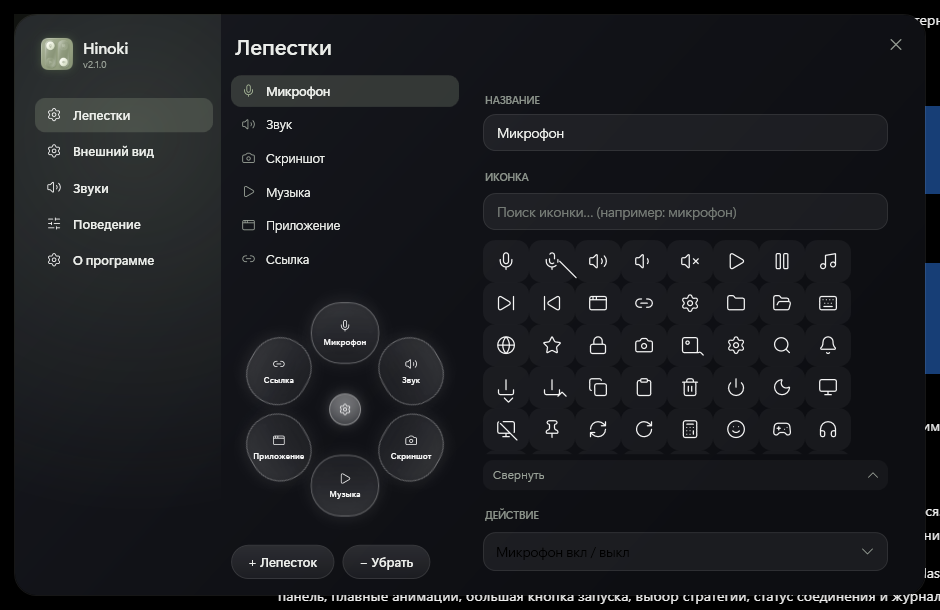
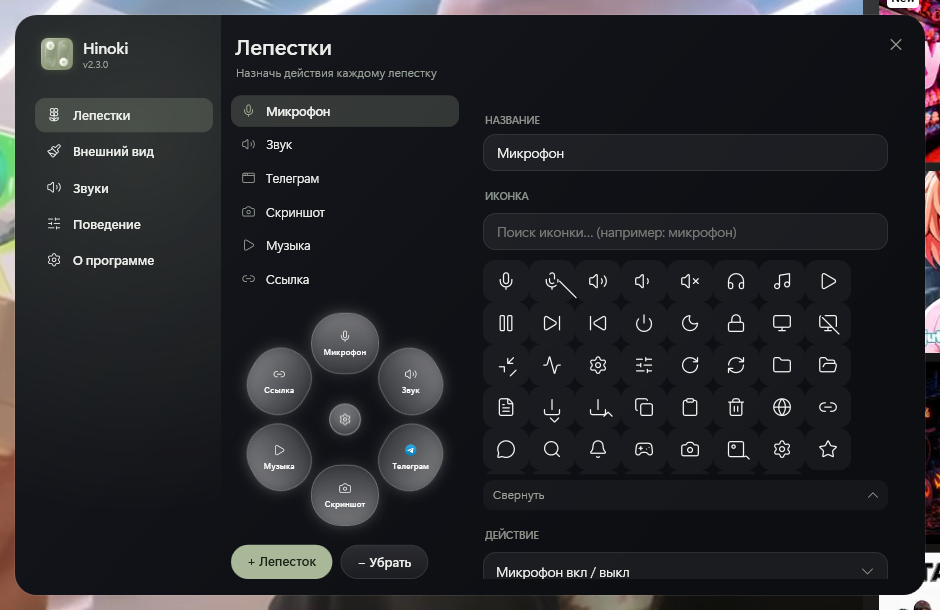
feat: v2.3.0 — polish pass
- Icon library grouped by category (media, system, files, web, misc)
- Settings preview now reflects mic/system mute state (red tint)
- Fade entrance no longer snaps scale
- Pill buttons get a gentle hover scale
- Removed compiler warning (unused field)
- Editor petal title size bump; site shots refreshed

diff --git a/docs/index.html b/docs/index.html
@@ -42,7 +42,7 @@
 <!-- hero -->
 <header class="hero">
   <div class="hero-copy">
-    <p class="eyebrow reveal">Трей-утилита для Windows 10 / 11 · v2.2</p>
+    <p class="eyebrow reveal">Трей-утилита для Windows 10 / 11 · v2.3</p>
     <h1 class="reveal d1">Один клик<br><em>колёсиком</em> —<br>и всё под рукой</h1>
     <p class="lede reveal d2">Средняя кнопка мыши — распускается стеклянный цветок. 38 действий,
       звуки, 48 иконок с поиском, автозакрытие. Настройки — прямо в центре цветка.</p>
@@ -53,7 +53,7 @@
       </a>
       <a class="btn btn-ghost btn-big" href="#how">Как это работает</a>
     </div>
-    <p class="micro reveal d4">Без установки · меньше 1 МБ · v2.2.0 · бесплатно и открыто</p>
+    <p class="micro reveal d4">Без установки · меньше 1 МБ · v2.3.0 · бесплатно и открыто</p>
   </div>
 
   <!-- the living flower -->
@@ -165,7 +165,7 @@
     <h2>Средняя кнопка<br><em>уже ждёт</em></h2>
     <p>Скачайте Hinoki — и через десять секунд у вас будет самый красивый мут в Discord.</p>
     <div class="hero-actions center">
-      <a class="btn btn-accent btn-big" href="https://github.com/arseniyru90-afk/hinoki/releases/latest/download/Hinoki.exe" download>Скачать Hinoki · v2.2</a>
+      <a class="btn btn-accent btn-big" href="https://github.com/arseniyru90-afk/hinoki/releases/latest/download/Hinoki.exe" download>Скачать Hinoki · v2.3</a>
       <a class="btn btn-ghost btn-big" href="https://github.com/arseniyru90-afk/hinoki" target="_blank" rel="noopener">Исходники на GitHub</a>
     </div>
   </div>

diff --git a/tools/patch_230.py b/tools/patch_230.py
@@ -1,0 +1,124 @@
+"""v2.3.0 polish: warnings, grouped icon library, muted states in preview, fade entrance, button hover."""
+import io
+
+# ============ SettingsWindow ============
+p = "app/src/SettingsWindow.cs"
+s = io.open(p, encoding="utf-8").read()
+
+# 1) remove unused field (compiler warning)
+s = s.replace("        bool _suppressPulse;\n", "")
+
+# 2) preview reflects muted states after every rebuild
+s = s.replace("""        public void Rebuild()
+        {
+            Build();
+        }""",
+"""        public void Rebuild()
+        {
+            Build();
+            RefreshToggleStates();
+        }""")
+
+# 3) icon library: grouped by category (media -> system -> files -> web -> misc)
+start = s.index("        static readonly string[][] IconLibrary = new string[][]")
+end = s.index("        };", start) + len("        };")
+lib = """        static readonly string[][] IconLibrary = new string[][]
+        {
+            // media & sound
+            new[] { "mic", "микрофон микрофон mic звукозапись" },
+            new[] { "mic-off", "микрофон выкл mic-off мут" },
+            new[] { "volume-2", "звук громкость volume динамик" },
+            new[] { "volume-1", "звук тише volume маленький" },
+            new[] { "volume-x", "звук выкл мут volume-x" },
+            new[] { "headphones", "наушники headphones гарнитура" },
+            new[] { "music", "музыка нота music трек" },
+            new[] { "play", "play играть пуск музыка старт" },
+            new[] { "pause", "пауза pause стоп" },
+            new[] { "skip-forward", "следующий трек next вперёд" },
+            new[] { "skip-back", "предыдущий трек prev назад" },
+            // system & power
+            new[] { "power", "питание power выключить" },
+            new[] { "moon", "луна сон ночь спящий moon" },
+            new[] { "lock", "замок lock блокировка закрыть" },
+            new[] { "monitor", "монитор экран desktop дисплей" },
+            new[] { "monitor-off", "монитор выкл погасить экран" },
+            new[] { "minimize-2", "свернуть minimize окно" },
+            new[] { "activity", "диспетчер activity пульс задачи" },
+            new[] { "settings", "настройки gear шестерёнка settings" },
+            new[] { "sliders-horizontal", "ползунки sliders поведение настройки" },
+            new[] { "rotate-cw", "перезагрузка rotate поворот" },
+            new[] { "refresh-cw", "обновить refresh заново" },
+            // files & folders
+            new[] { "folder", "папка folder директория" },
+            new[] { "folder-open", "папка открыта открыть folder" },
+            new[] { "file-text", "документ файл текст file текстовый" },
+            new[] { "download", "скачать download загрузка вниз" },
+            new[] { "upload", "загрузить upload вверх экспорт" },
+            new[] { "copy", "копировать copy" },
+            new[] { "clipboard", "буфер clipboard вставить" },
+            new[] { "trash-2", "корзина удалить мусор trash bin" },
+            // web & communication
+            new[] { "globe", "глобус интернет globe web сеть" },
+            new[] { "link-2", "ссылка link адрес url цепь" },
+            new[] { "message-circle", "сообщение чат message discord" },
+            new[] { "search", "поиск найти search лупа" },
+            new[] { "bell", "уведомление колокольчик bell звонок" },
+            new[] { "gamepad-2", "геймпад игра game steam" },
+            // appearance & misc
+            new[] { "camera", "камера фото camera снимок скриншот" },
+            new[] { "image", "изображение картинка image фото" },
+            new[] { "crop", "скриншот обрезка crop выделить" },
+            new[] { "star", "звезда star избранное лайк" },
+            new[] { "smile", "смайл эмодзи smile улыбка" },
+            new[] { "paintbrush", "палитра paintbrush краски цвет" },
+            new[] { "grid-2x2", "приложения сетка grid все" },
+            new[] { "calculator", "калькулятор calculator посчитать" },
+            new[] { "pin", "закрепить pin поверх булавка" },
+            new[] { "keyboard", "клавиатура keyboard" },
+            new[] { "info", "информация info сведения" }
+        };"""
+s = s[:start] + lib + s[end:]
+
+# 4) editor petal title bigger
+s = s.replace('var title = Glass.Label("Лепесток " + (_selPetal + 1), 17, false, true);',
+              'var title = Glass.Label("Лепесток " + (_selPetal + 1), 18, false, true);')
+
+io.open(p, "w", encoding="utf-8").write(s)
+print("settings polish ok")
+
+# ============ UiControls: pill hover scale + subtle press ============
+p2 = "app/src/UiControls.cs"
+s2 = io.open(p2, encoding="utf-8").read()
+s2 = s2.replace("""            MouseEnter += delegate { Opacity = 0.9; };
+            MouseLeave += delegate { Opacity = 1; };
+            MouseLeftButtonDown += delegate { Scale(0.95); };""",
+"""            MouseEnter += delegate { Opacity = 0.92; Scale(1.03); };
+            MouseLeave += delegate { Opacity = 1; Scale(1); };
+            MouseLeftButtonDown += delegate { Scale(0.95); };""")
+io.open(p2, "w", encoding="utf-8").write(s2)
+print("pill hover ok")
+
+# ============ FlowerMenu: fade entrance without scale snap ============
+p3 = "app/src/FlowerMenu.cs"
+s3 = io.open(p3, encoding="utf-8").read()
+s3 = s3.replace("""                bool pureFade = style == "fade";
+                IEasingFunction e;
+                if (style == "smooth" || pureFade) e = new CubicEase { EasingMode = EasingMode.EaseOut };
+                else if (style == "elastic") e = new ElasticEase { Oscillations = 2, Springiness = 3.2, EasingMode = EasingMode.EaseOut };
+                else if (style == "bounce") e = new BounceEase { Bounces = 2, Bounciness = 2.4, EasingMode = EasingMode.EaseOut };
+                else if (style == "ripple") e = new BackEase { Amplitude = 0.8, EasingMode = EasingMode.EaseOut };
+                else e = new BackEase { Amplitude = 0.45, EasingMode = EasingMode.EaseOut };
+                var gx = new DoubleAnimation(1, new Duration(TimeSpan.FromMilliseconds((pureFade ? 10 : 460) / sp))) { EasingFunction = e };
+                var gy = new DoubleAnimation(1, new Duration(TimeSpan.FromMilliseconds((pureFade ? 10 : 460) / sp))) { EasingFunction = e };""",
+"""                bool pureFade = style == "fade";
+                IEasingFunction e;
+                if (style == "smooth" || pureFade) e = new CubicEase { EasingMode = EasingMode.EaseOut };
+                else if (style == "elastic") e = new ElasticEase { Oscillations = 2, Springiness = 3.2, EasingMode = EasingMode.EaseOut };
+                else if (style == "bounce") e = new BounceEase { Bounces = 2, Bounciness = 2.4, EasingMode = EasingMode.EaseOut };
+                else if (style == "ripple") e = new BackEase { Amplitude = 0.8, EasingMode = EasingMode.EaseOut };
+                else e = new BackEase { Amplitude = 0.45, EasingMode = EasingMode.EaseOut };
+                if (pureFade) Scale.ScaleX = 1; Scale.ScaleY = 1;
+                var gx = new DoubleAnimation(1, new Duration(TimeSpan.FromMilliseconds((pureFade ? 10 : 460) / sp))) { EasingFunction = e };
+                var gy = new DoubleAnimation(1, new Duration(TimeSpan.FromMilliseconds((pureFade ? 10 : 460) / sp))) { EasingFunction = e };""")
+io.open(p3, "w", encoding="utf-8").write(s3)
+print("fade ok")

diff --git a/app/src/SettingsWindow.cs b/app/src/SettingsWindow.cs
@@ -61,7 +61,6 @@ namespace Hinoki
         TextBlock _pageTitle;
         TextBlock _pageSub;
         string _page = "petals";
-        bool _suppressPulse;
 
         public SettingsWindow()
         {
@@ -227,7 +226,7 @@ namespace Hinoki
             bn.VerticalAlignment = VerticalAlignment.Center;
             bn.Margin = new Thickness(10, 0, 0, 0);
             bn.Children.Add(Glass.Label("Hinoki", 15.5, false, true));
-            bn.Children.Add(Glass.Label("v2.2.0", 10, true));
+            bn.Children.Add(Glass.Label("v2.3.0", 10, true));
             brand.Children.Add(bn);
             Grid.SetRow(brand, 0);
             rail.Children.Add(brand);
@@ -490,7 +489,6 @@ namespace Hinoki
 
         public void Pulse()
         {
-            if (_suppressPulse) return;
             _status.Text = "Сохранено ✓";
             var a = new DoubleAnimation(1, new Duration(TimeSpan.FromMilliseconds(140)));
             _status.BeginAnimation(OpacityProperty, a);
@@ -509,53 +507,57 @@ namespace Hinoki
 
         static readonly string[][] IconLibrary = new string[][]
         {
+            // media & sound
             new[] { "mic", "микрофон микрофон mic звукозапись" },
             new[] { "mic-off", "микрофон выкл mic-off мут" },
             new[] { "volume-2", "звук громкость volume динамик" },
             new[] { "volume-1", "звук тише volume маленький" },
             new[] { "volume-x", "звук выкл мут volume-x" },
+            new[] { "headphones", "наушники headphones гарнитура" },
+            new[] { "music", "музыка нота music трек" },
             new[] { "play", "play играть пуск музыка старт" },
             new[] { "pause", "пауза pause стоп" },
-            new[] { "music", "музыка нота music трек" },
             new[] { "skip-forward", "следующий трек next вперёд" },
             new[] { "skip-back", "предыдущий трек prev назад" },
-            new[] { "app-window", "приложение окно app программа" },
-            new[] { "link-2", "ссылка link адрес url цепь" },
+            // system & power
+            new[] { "power", "питание power выключить" },
+            new[] { "moon", "луна сон ночь спящий moon" },
+            new[] { "lock", "замок lock блокировка закрыть" },
+            new[] { "monitor", "монитор экран desktop дисплей" },
+            new[] { "monitor-off", "монитор выкл погасить экран" },
+            new[] { "minimize-2", "свернуть minimize окно" },
+            new[] { "activity", "диспетчер activity пульс задачи" },
             new[] { "settings", "настройки gear шестерёнка settings" },
+            new[] { "sliders-horizontal", "ползунки sliders поведение настройки" },
+            new[] { "rotate-cw", "перезагрузка rotate поворот" },
+            new[] { "refresh-cw", "обновить refresh заново" },
+            // files & folders
             new[] { "folder", "папка folder директория" },
             new[] { "folder-open", "папка открыта открыть folder" },
-            new[] { "keyboard", "клавиатура keyboard" },
-            new[] { "globe", "глобус интернет globe web сеть" },
-            new[] { "star", "звезда star избранное лайк" },
-            new[] { "lock", "замок lock блокировка закрыть" },
-            new[] { "camera", "камера фото camera снимок скриншот" },
-            new[] { "image", "изображение картинка image фото" },
-            new[] { "crop", "скриншот обрезка crop выделить" },
-            new[] { "search", "поиск найти search лупа" },
-            new[] { "bell", "уведомление колокольчик bell звонок" },
+            new[] { "file-text", "документ файл текст file текстовый" },
             new[] { "download", "скачать download загрузка вниз" },
             new[] { "upload", "загрузить upload вверх экспорт" },
             new[] { "copy", "копировать copy" },
             new[] { "clipboard", "буфер clipboard вставить" },
             new[] { "trash-2", "корзина удалить мусор trash bin" },
-            new[] { "power", "питание power выключить" },
-            new[] { "moon", "луна сон ночь спящий moon" },
-            new[] { "monitor", "монитор экран desktop дисплей" },
-            new[] { "monitor-off", "монитор выкл погасить экран" },
-            new[] { "pin", "закрепить pin поверх булавка" },
-            new[] { "refresh-cw", "обновить refresh заново" },
-            new[] { "rotate-cw", "перезагрузка rotate поворот" },
-            new[] { "calculator", "калькулятор calculator посчитать" },
-            new[] { "smile", "смайл эмодзи smile улыбка" },
-            new[] { "gamepad-2", "геймпад игра game steam" },
-            new[] { "headphones", "наушники headphones гарнитура" },
-            new[] { "activity", "диспетчер activity пульс задачи" },
-            new[] { "minimize-2", "свернуть minimize окно" },
+            // web & communication
+            new[] { "globe", "глобус интернет globe web сеть" },
+            new[] { "link-2", "ссылка link адрес url цепь" },
             new[] { "message-circle", "сообщение чат message discord" },
-            new[] { "file-text", "документ файл текст file текстовый" },
+            new[] { "search", "поиск найти search лупа" },
+            new[] { "bell", "уведомление колокольчик bell звонок" },
+            new[] { "gamepad-2", "геймпад игра game steam" },
+            // appearance & misc
+            new[] { "camera", "камера фото camera снимок скриншот" },
+            new[] { "image", "изображение картинка image фото" },
+            new[] { "crop", "скриншот обрезка crop выделить" },
+            new[] { "star", "звезда star избранное лайк" },
+            new[] { "smile", "смайл эмодзи smile улыбка" },
+            new[] { "paintbrush", "палитра paintbrush краски цвет" },
             new[] { "grid-2x2", "приложения сетка grid все" },
-            new[] { "sliders-horizontal", "ползунки sliders поведение настройки" },
-            new[] { "palette", "палитра palette краски цвет" },
+            new[] { "calculator", "калькулятор calculator посчитать" },
+            new[] { "pin", "закрепить pin поверх булавка" },
+            new[] { "keyboard", "клавиатура keyboard" },
             new[] { "info", "информация info сведения" }
         };
 
@@ -1304,7 +1306,7 @@ namespace Hinoki
             name.Margin = new Thickness(0, 14, 0, 0);
             stack.Children.Add(name);
 
-            var ver = Glass.Label("Версия 2.2.0 · Windows 10/11", 12, true);
+            var ver = Glass.Label("Версия 2.3.0 · Windows 10/11", 12, true);
             ver.HorizontalAlignment = HorizontalAlignment.Center;
             ver.Margin = new Thickness(0, 3, 0, 0);
             stack.Children.Add(ver);

diff --git a/app/src/FlowerMenu.cs b/app/src/FlowerMenu.cs
@@ -266,6 +266,7 @@ namespace Hinoki
                 else if (style == "bounce") e = new BounceEase { Bounces = 2, Bounciness = 2.4, EasingMode = EasingMode.EaseOut };
                 else if (style == "ripple") e = new BackEase { Amplitude = 0.8, EasingMode = EasingMode.EaseOut };
                 else e = new BackEase { Amplitude = 0.45, EasingMode = EasingMode.EaseOut };
+                if (pureFade) Scale.ScaleX = 1; Scale.ScaleY = 1;
                 var gx = new DoubleAnimation(1, new Duration(TimeSpan.FromMilliseconds((pureFade ? 10 : 460) / sp))) { EasingFunction = e };
                 var gy = new DoubleAnimation(1, new Duration(TimeSpan.FromMilliseconds((pureFade ? 10 : 460) / sp))) { EasingFunction = e };
                 Scale.BeginAnimation(ScaleTransform.ScaleXProperty, gx);

diff --git a/app/src/UiControls.cs b/app/src/UiControls.cs
@@ -588,8 +588,8 @@ namespace Hinoki
                 t.Foreground = Ui.Solid(Ui.Ink, 0.95);
             }
 
-            MouseEnter += delegate { Opacity = 0.9; };
-            MouseLeave += delegate { Opacity = 1; };
+            MouseEnter += delegate { Opacity = 0.92; Scale(1.03); };
+            MouseLeave += delegate { Opacity = 1; Scale(1); };
             MouseLeftButtonDown += delegate { Scale(0.95); };
             MouseLeftButtonUp += delegate
             {

diff --git a/README.md b/README.md
@@ -14,7 +14,7 @@
 - **Свой характер**: палитра акцентов, прозрачность лепестков, сила свечения, светлое стекло, размер меню, показ подписей
 - **Глобальный хоткей** открытия меню без мыши
 - **Тумблеры**: анимации, закрытие по клику мимо, автозакрытие по таймеру — полный контроль
-- **Поиск иконок**: 48 настоящих Lucide-иконок, первая полоса всегда видна, остальные раскрываются плавно
+- **Поиск иконок**: 48 настоящих Lucide-иконок, сгруппированных по категориям; первая полоса всегда видна, остальные раскрываются плавно
 - **Стиль появления**: пружина / плавно / мгновенно + скорость анимаций
 - **Скругление лепестков и прозрачность центра** — отдельные слайдеры
 - **Палитра из 16 акцентов**
